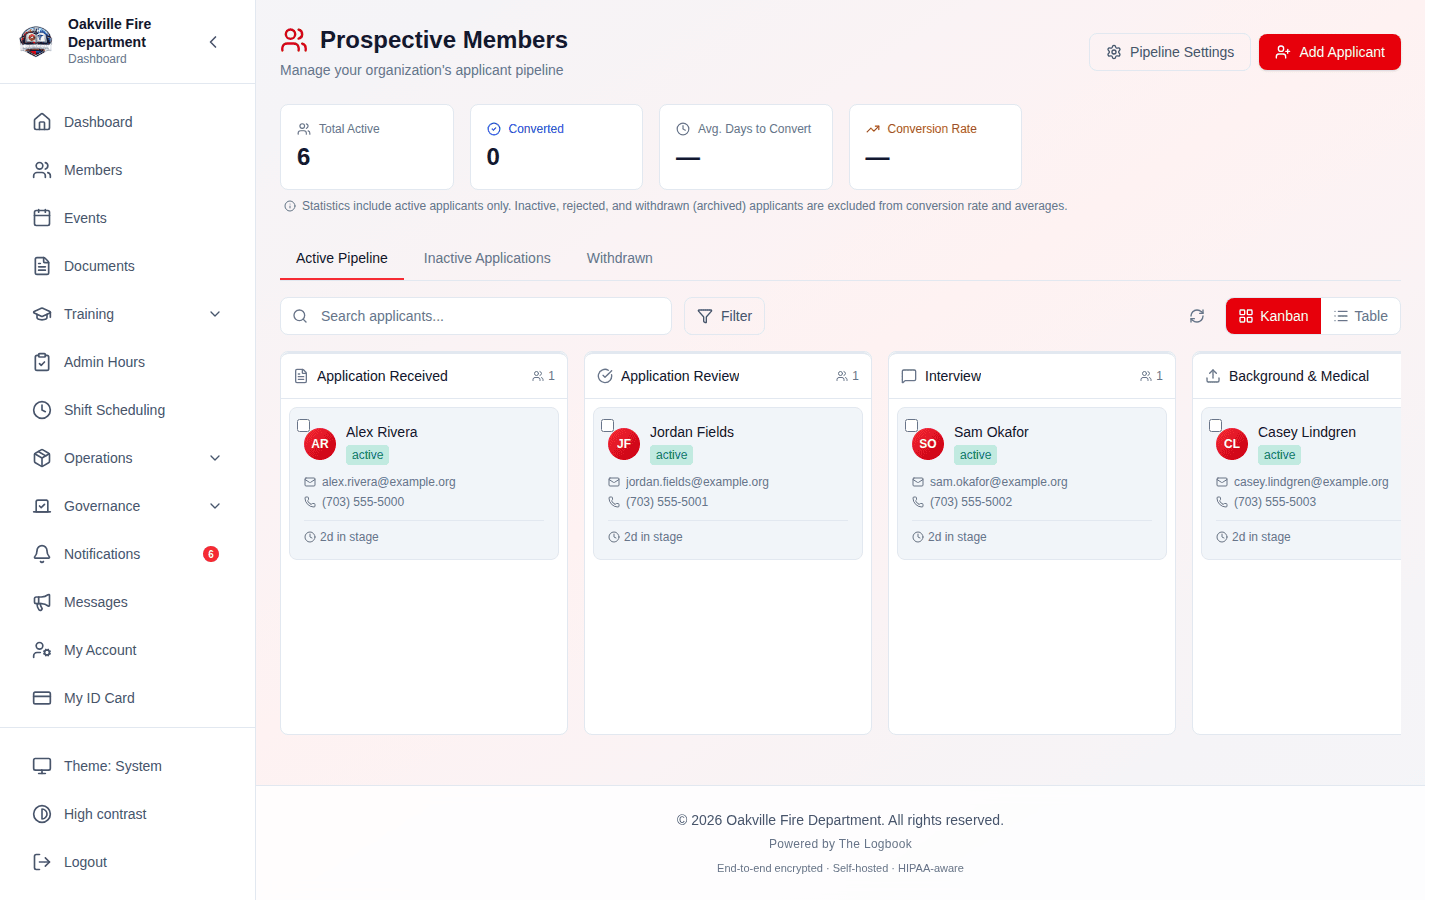
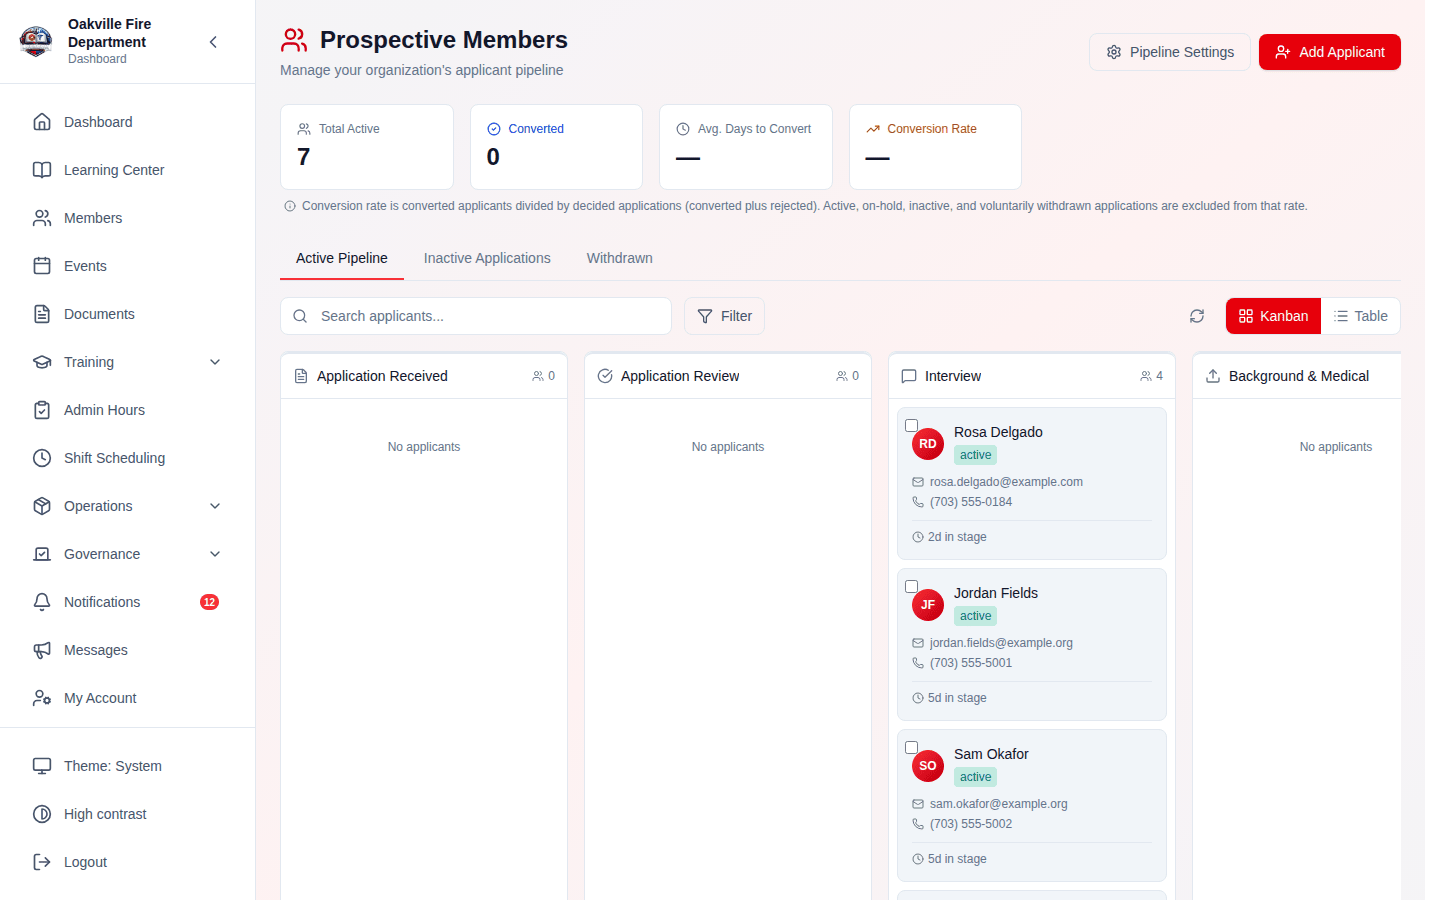
fix(seed): give an existing prospect pipeline its stages
Three guide-01 screenshots pictured an empty applicant board while seven active
applicants sat in the database. The pipeline had no stages at all, and a
pipeline with no stages has no board columns, so nothing can be placed on it.

The seeder does send a `steps` payload — but only when it *creates* the
pipeline, and the guard above that skips creation once a pipeline of the same
name exists. A database seeded before that payload was added therefore keeps a
stage-less pipeline forever. `_backfill_pipeline_stages` repairs an existing
one, idempotent on the state so a re-run cannot append a second set.

All three images are right now: the board shows Total Active 7 with cards in
Interview, the bulk bar shows "3 selected" with its actions, and the drawer
shows a stage, a linked event, the interview requirement and the action bar.
Their empty-state flags are false positives — a board spreading seven applicants
across six stages necessarily leaves columns reading "No applicants" — and are
suppressed with that reasoning recorded beside them.

Also records a 500 found while diagnosing this: advancing a prospect out of an
`interview_requirement` stage raises MissingGreenlet from a lazy relationship
read in async context. Interview is the third stage of the default pipeline, so
it is reachable by any department using the shipped stages. Left for an owner —
it wants an audit of that validator's loading strategy, not a one-line catch.
[…]

diff --git a/scripts/screenshots/seed_demo_data.py b/scripts/screenshots/seed_demo_data.py
@@ -8639,6 +8639,52 @@ class Seeder:
         ("Onboarding", "checklist", False, True),
     ]
 
+    def _backfill_pipeline_stages(self, pipeline_id: str | None) -> None:
+        """Give an existing pipeline its stages if it has none.
+
+        The `steps` payload above only runs when the pipeline is *created*, and
+        the guard above that skips creation once a pipeline of the same name
+        exists. A database seeded before that payload was added therefore keeps
+        a stage-less pipeline forever — and a pipeline with no stages has no
+        board columns, so every prospect is unplaceable and four screenshots
+        across guides 01 and 15 picture "No applicants" while seven active
+        prospects sit in the database.
+
+        Idempotent on the state: a pipeline that already has stages is left
+        alone rather than having a second set appended.
+        """
+        if not pipeline_id:
+            return
+        try:
+            existing = items(
+                self.api.get(f"/prospective-members/pipelines/{pipeline_id}/steps"),
+                "steps",
+            )
+        except ApiError as exc:
+            self.blocked.append(f"pipeline stages: read: {exc}")
+            return
+        if existing:
+            return
+
+        for order, (name, step_type, first, final) in enumerate(self.PIPELINE_STAGES):
+            try:
+                self.api.post(
+                    f"/prospective-members/pipelines/{pipeline_id}/steps",
+                    {
+                        "name": name,
+                        "description": f"{name} stage.",
+                        "step_type": step_type,
+                        "is_first_step": first,
+                        "is_final_step": final,
+                        "sort_order": order,
+                        "required": True,
+                        "public_visible": True,
+                    },
+                )
+            except ApiError as exc:
+                self.blocked.append(f"pipeline stage {name}: {exc}")
+                return
+
     PROSPECTS = [
         ("Alex", "Rivera", "Saw the station open house"),
         ("Jordan", "Fields", "Family member is a volunteer"),
@@ -8681,6 +8727,7 @@ class Seeder:
                 )
             )
         pipeline_id = pick(pipelines[0], "id") if pipelines else None
+        self._backfill_pipeline_stages(pipeline_id)
 
         prospects = items(
             self.api.get("/prospective-members/prospects?limit=100"), "prospects"

diff --git a/docs/training/SCREENSHOT_CURRENCY.md b/docs/training/SCREENSHOT_CURRENCY.md
@@ -43,6 +43,38 @@ committed. Images that changed but were not opened are deliberately left
 uncommitted rather than taken on trust — see the navigation incident below for
 why that rule exists.
 
+### 01-membership — the "No applicants" gap, closed
+
+Three shots (`01-10-prospective-pipeline`, `01-25-applicant-action-bar`,
+`01-26-print-applicant-badges`) pictured an empty board while seven active
+applicants sat in the database. **The pipeline had no stages at all.**
+
+The seeder does send a `steps` payload — but only when it _creates_ the
+pipeline, and the guard above that skips creation once a pipeline of the same
+name exists. A database seeded before that payload was added therefore keeps a
+stage-less pipeline forever, and a pipeline with no stages has no board columns,
+so no applicant can be placed. `_backfill_pipeline_stages` now repairs an
+existing pipeline, idempotent on the state.
+
+All three images are correct now: the board shows Total Active 7 with cards in
+Interview, the bulk bar shows "3 selected" with Print Badges / Advance All /
+Reject All, and the drawer shows Rosa Delgado's stage, linked event, interview
+requirement and full action bar.
+
+The empty-state flag on these three is a **false positive** and is now
+suppressed with a note: a board that spreads seven applicants across six stages
+necessarily leaves columns reading "No applicants", and a drawer for an
+applicant who has uploaded nothing reads "No documents yet". Neither means the
+page is empty — the check is Total Active.
+
+**A 500 found on the way, not yet fixed.** `POST /prospects/{id}/advance` returns
+500 rather than a handled error when the target stage is an
+`interview_requirement`: `_validate_step_completion` reads
+`prospect.interviews`, a lazy relationship, inside async context, and SQLAlchemy
+raises `MissingGreenlet`. The endpoint maps `ValueError` to 409 but nothing
+catches this. Advancing anyone out of the Interview stage — the third stage of
+the default pipeline — hits it. Recorded in KNOWN_LIMITATIONS.
+
 ### 00-getting-started — complete, 11 of 11 changed images verified
 
 Third tick closed it out with `00-07-dashboard-panels`: current, and its

diff --git a/docs/KNOWN_LIMITATIONS.md b/docs/KNOWN_LIMITATIONS.md
@@ -1517,6 +1517,29 @@ position model to the ballot-item model the public page already uses, including
 its submission shape. Needs an owner decision on whether to converge the two
 ballots or retire one of them. This loop does not make that call.
 
+## Prospective Members — Advancing Out of an Interview Stage Returns 500 (2026-08-13)
+
+`POST /api/v1/prospective-members/prospects/{id}/advance` answers **500** when
+the prospect's current stage is an `interview_requirement`. It is not a handled
+error: `MembershipPipelineService._validate_step_completion` reads
+`prospect.interviews` — a lazily-loaded relationship — inside async context, and
+SQLAlchemy raises `MissingGreenlet` ("greenlet_spawn has not been called").
+
+The endpoint already maps `ValueError` to a 409 for the legitimate "nowhere to
+advance to" cases, so the surrounding error handling is deliberate; this one
+escapes it entirely and reaches the unhandled-exception handler.
+
+**Interview is the third stage of the default pipeline**, so any department
+using the shipped stage set hits this the first time it tries to move an
+applicant past it. The applicant cannot be advanced through the UI either, since
+the button calls the same endpoint.
+
+The fix is to eager-load `interviews` (and to audit the other relationships
+`_validate_step_completion` touches for the same pattern) rather than to catch
+the error — a lazy load in async context is the defect, not the symptom. Left
+for an owner because it wants a proper audit of that validator's loading
+strategy rather than a one-relationship patch from a documentation pass.
+
 ## Training — The Student View of a Cohort Has No Frontend (2026-08-12)
 
 The API implements it. `GET /training/cohorts/{id}` served to a member on the
